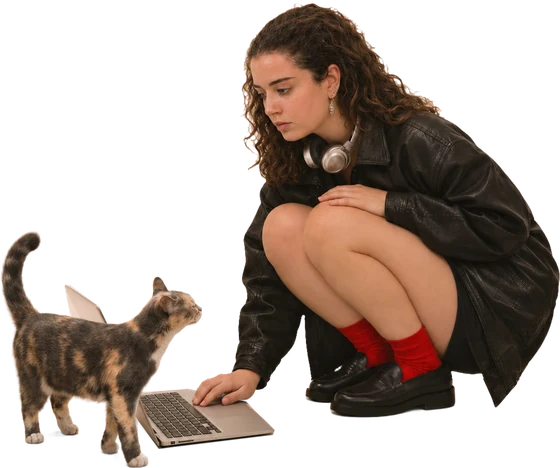
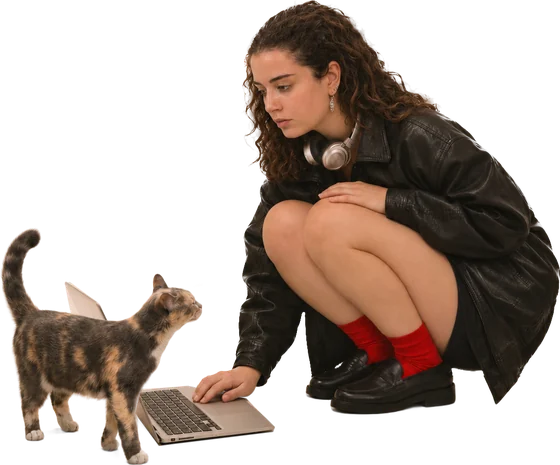
אודות: ABOUT גדול מאחורי התמונה, אייפד גדול יותר, תזוזה בגלילה וניקוי ההילה בשיער
Claude-Session: https://claude.ai/code/session_01EdftsxnPsh1hyQnG82iFW6

diff --git a/index.html b/index.html
@@ -369,11 +369,11 @@ p{margin:0}
 [dir="rtl"] .bio .portrait{margin-inline-start:auto}
 @media (max-width:640px){.portrait{width:4.9em}.mb-base{height:4.8em}}
 /* her photo with the cat (background removed, flipped to face the text): floats on the end side of the bio, and the text wraps into the empty space above the cat */
-.about-me{float:right;width:44%;margin:.1em 0 .4em .5em;shape-outside:polygon(47% 0,40% 6%,37% 38%,0 42%,0 100%,100% 100%,100% 0);shape-margin:14px;pointer-events:none}
-[dir="rtl"] .about-me{float:left;margin:.1em .5em .4em 0;shape-outside:polygon(53% 0,60% 6%,63% 38%,100% 42%,100% 100%,0 100%,0 0)}
+.about-me{float:right;width:44%;margin:.1em 0 .4em .5em;shape-outside:polygon(47% 0,40% 6%,37% 33%,0 37%,0 100%,100% 100%,100% 0);shape-margin:14px;pointer-events:none}
+[dir="rtl"] .about-me{float:left;margin:.1em .5em .4em 0;shape-outside:polygon(53% 0,60% 6%,63% 33%,100% 37%,100% 100%,0 100%,0 0)}
 .about-me img{display:block;width:100%;height:auto}
 [dir="rtl"] .about-me img{transform:scaleX(-1)}
-@media (max-width:640px){.about-me,[dir="rtl"] .about-me{float:none;width:100%;margin:0 0 .5em;shape-outside:none}}
+@media (max-width:640px){.about-me,[dir="rtl"] .about-me{float:none;display:block;width:100%;margin:0 0 .5em;shape-outside:none}}
 .clip{position:absolute;top:-14px;inset-inline-end:12px;width:18px;height:46px;z-index:2}
 @media (max-width:820px){.facts{grid-column:1/-1;flex-direction:row;flex-wrap:wrap;order:2}.bio{grid-column:1/-1}}
 
@@ -391,7 +391,7 @@ p{margin:0}
 
 /* the iPad and a big "ABOUT" stand side by side on one line, the word as tall as the iPad (JS fits it); its letters drop in like the name at the top */
 .ab-top{display:flex;align-items:flex-start;gap:.35em;margin:0 0 1.2em}
-.ab-top .portrait{margin:0!important;margin-inline-end:-.3em!important;flex:none;width:4.7em;position:relative;z-index:3;rotate:-6deg;translate:0 -.04em;filter:drop-shadow(.06em .18em .22em rgba(0,0,0,.22))}
+.ab-top .portrait{margin:0!important;margin-inline-end:-.3em!important;flex:none;width:4.7em;position:relative;z-index:3;rotate:-6deg;filter:drop-shadow(.06em .18em .22em rgba(0,0,0,.22))}
 [dir=rtl] .ab-top .portrait{rotate:6deg}
 @media (max-width:640px){.ab-top .portrait{margin-inline-end:-.3em!important}}
 @media (max-width:640px){.ab-top .portrait{width:4.4em}}
@@ -408,6 +408,13 @@ p{margin:0}
 .rv.in{opacity:1;transform:none}
 .ab-measure .rv{transform:none!important;transition:none!important}
 .about-me{position:relative;z-index:2}
+/* scroll parallax in About: the word, the iPad and the photo drift at different speeds (JS sets --pa from -1 to 1) */
+.ab-big{position:relative;z-index:1;translate:0 calc(var(--pa,0) * 46px)}
+.ab-top .portrait{translate:calc(var(--pa,0) * -14px) calc(var(--pa,0) * -70px)}
+.about-me{translate:0 calc(var(--pa,0) * -14px)}
+@media (max-width:640px){.ab-big{translate:0 calc(var(--pa,0) * 22px)}.ab-top .portrait{translate:0 calc(var(--pa,0) * -30px)}.about-me{translate:0 calc(var(--pa,0) * -16px)}}
+.ab-measure .ab-big,.ab-measure .ab-top .portrait,.ab-measure .about-me{translate:none!important}
+@media (prefers-reduced-motion:reduce){.ab-big,.ab-top .portrait,.about-me{translate:none}}
 /* ---------- weddings ---------- */
 .wed{padding-block:clamp(80px,10vw,150px) 0;display:grid;grid-template-columns:repeat(12,minmax(0,1fr));gap:24px}
 .wed h2{grid-column:1/-1;font-size:var(--s-h2);letter-spacing:-.02em}
@@ -692,7 +699,7 @@ From the first idea to the real thing.</p>
   </div>
   <div class="bio">
     <div class="ab-top"><span class="portrait"><span class="mb-lid"><span class="pf"><img id="pf-img" src="about/frames/f00.webp" alt="" width="480" height="480" decoding="async"><svg class="pc-ui" viewBox="0 0 100 144" preserveAspectRatio="xMidYMin slice" aria-hidden="true"><rect width="100" height="8" fill="#1C1C1E" opacity=".86"/><text x="3" y="5.4" font-size="3.4" font-family="-apple-system,Helvetica,Arial,sans-serif" fill="#fff">Gallery</text><g fill="none" stroke="#fff" stroke-width=".55" stroke-linecap="round" stroke-linejoin="round"><path d="M18.2 5.6l2.6-2.6m-.4-.6a1 1 0 1 0 1 1"/><path d="M24 5.6l2.4-2.4M27 2.2l.3.6.6.3-.6.3-.3.6-.3-.6-.6-.3.6-.3z"/><path d="M32.6 2.6c-.6-.5-2-.4-2 .5 0 1.2 2.2.8 2.2 2 0 .9-1.5 1-2.2.4"/><path d="M36 4h3m-.9-.9.9.9-.9.9M37.5 2.5v3"/><path d="M66 5.8l2.6-3.2.5.4-2.6 3.2z"/><path d="M72.6 5.8c0-1.4 1.2-1.8 1.6-3.4.5 1.6 1.4 2 1 3.4"/><path d="M79.6 5.6l2.2-2.4 1 .9-2.2 2.4z"/><rect x="85.4" y="2.4" width="2.6" height="2.6" rx=".3"/><path d="M85 3.4v2.2h2.4"/></g><circle cx="94.2" cy="4" r="1.9" fill="#2F80FF" stroke="#fff" stroke-width=".4"/><rect x="1.6" y="44" width="4.6" height="48" rx="2.3" fill="#2C2C2E" opacity=".82"/><rect x="3.4" y="47" width="1" height="16" rx=".5" fill="#8E8E93"/><rect x="2.4" y="52" width="3" height="2.6" rx=".6" fill="#fff"/><rect x="2.6" y="65.2" width="2.6" height="2.6" rx=".5" fill="none" stroke="#C7C7CC" stroke-width=".45"/><rect x="3.4" y="70" width="1" height="14" rx=".5" fill="#8E8E93"/><rect x="2.4" y="74" width="3" height="2.6" rx=".6" fill="#fff"/><g fill="none" stroke="#fff" stroke-width=".5" stroke-linecap="round" stroke-linejoin="round"><path d="M5.1 86.4h-2.2m.8-.8-.8.8.8.8"/><path d="M2.7 89.6h2.2m-.8-.8.8.8-.8.8"/></g></svg></span></span><span class="mb-base"></span></span><span class="ab-big" aria-hidden="true" data-t="aboutH">About</span></div>
-    <picture class="about-me"><source media="(max-width:640px)" srcset="about/about-cat-m.webp"><img src="about/about-cat.webp" alt="Inbal crouching by a laptop on the floor, a cat walking up to it" width="900" height="765" decoding="async"></picture>
+    <picture class="about-me"><source media="(max-width:640px)" srcset="about/about-cat-m.webp"><img src="about/about-cat.webp" alt="Inbal crouching by a laptop on the floor, a cat walking up to it" width="900" height="747" decoding="async"></picture>
     <p><strong data-t="bioName">Hi, I’m Inbal Oz.</strong></p>
     <p data-t="bio1">I draw, I design, and I make things move.</p>
     <p data-t="bio2">I use whatever tools the work needs, from a brush and ink to the Adobe apps and AI, and I make sure it works wherever it has to live: in print, on a wall, on packaging or on a billboard.</p>
@@ -1677,13 +1684,13 @@ runIntro();
     const k0 = metrics(), phone = innerWidth <= 640;
     big.style.marginTop = '0px'; port.style.fontSize = '';
     // the word takes a set share of the column (smaller on desktop), and the iPad is then sized to the word's letter height
-    const share = phone ? .68 : (he() ? .42 : .5);
+    const share = phone ? .8 : (he() ? .66 : .74);
     big.style.fontSize = '100px';
     const fs = 100 * (top.clientWidth * share) / big.scrollWidth;
     big.style.fontSize = fs + 'px';
     const capH = fs * k0.ca;
     const pfs = parseFloat(getComputedStyle(port).fontSize), lh0 = lid.getBoundingClientRect().height / Math.cos(tilt());
-    port.style.fontSize = (pfs * capH / lh0) + 'px';
+    port.style.fontSize = (pfs * capH * (phone ? 1.5 : 1.25) / lh0) + 'px';   // the iPad stands a bit taller than the letters
     const lh = parseFloat(getComputedStyle(big).lineHeight) || fs * .74;
     const capTopInBox = (lh - (k0.fa + k0.fd) * fs) / 2 + (k0.fa - k0.ca) * fs;
     const r = port.getBoundingClientRect(), rt = top.getBoundingClientRect();
@@ -1695,7 +1702,10 @@ runIntro();
   const tilt = () => Math.abs(parseFloat(getComputedStyle(port).rotate) || 0) * Math.PI / 180;
   function fitPhoto(word){
     const ph = bio.querySelector('.about-me');
-    if (!ph || innerWidth <= 640) { if (ph) { ph.style.width = ''; ph.style.marginTop = ''; } return; }
+    if (!ph) return;
+    if (innerWidth <= 640) { // phone: the photo sits under the word with her head over its lower half
+      ph.style.width = ''; ph.style.marginTop = '0px';
+      ph.style.marginTop = (word.capTop + word.capH * .5 - ph.getBoundingClientRect().top) + 'px'; return; }
     const ps = bio.querySelectorAll('p'), first = ps[0], last = ps[ps.length - 1], fs = parseFloat(getComputedStyle(bio).fontSize);
     // the head reaches up over the lower 45% of the word
     ph.style.marginTop = '0px';
@@ -1737,6 +1747,15 @@ runIntro();
   const groups = [[port], [bio.querySelector('.about-me')], [...bio.querySelectorAll('p')], [...document.querySelectorAll('#about .facts > div')], [...document.querySelectorAll('#about .steps li')]];
   const io = new IntersectionObserver(es => es.forEach(e => { if (e.isIntersecting) { e.target.classList.add('in'); io.unobserve(e.target); } }), {threshold:.15, rootMargin:'0px 0px -6% 0px'});
   groups.forEach(g => g.forEach((el, i) => { if (!el) return; el.classList.add('rv'); el.style.setProperty('--d', (i * 110) + 'ms'); io.observe(el); }));
+})();
+
+/* About parallax driver: --pa runs -1 (section entering from below) .. 1 (leaving at the top) */
+(function(){
+  const sec = document.getElementById('about'); if (!sec || matchMedia('(prefers-reduced-motion: reduce)').matches) return;
+  let raf = 0;
+  const f = () => { raf = 0; const r = sec.getBoundingClientRect(); const c = r.top + Math.min(r.height, innerHeight * 1.2) / 2;
+    const v = Math.max(-1, Math.min(1, (innerHeight / 2 - c) / (innerHeight * .9))); sec.style.setProperty('--pa', v.toFixed(3)); };
+  addEventListener('scroll', () => { if (!raf) raf = requestAnimationFrame(f); }, {passive:true}); addEventListener('resize', f); f();
 })();
 </script>
 
